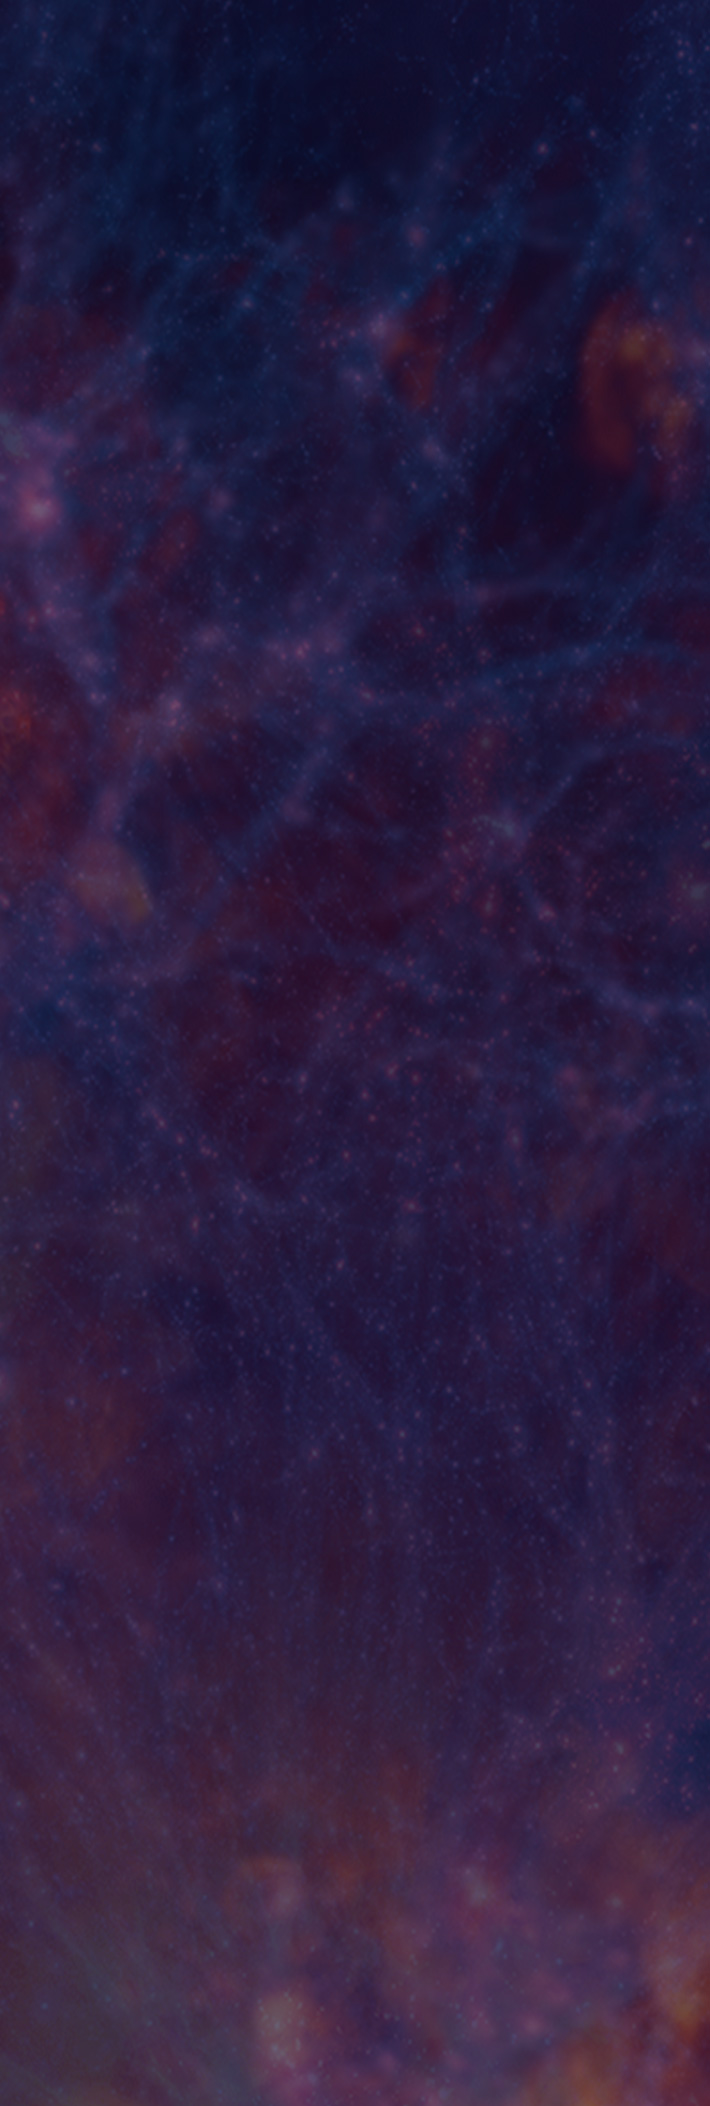
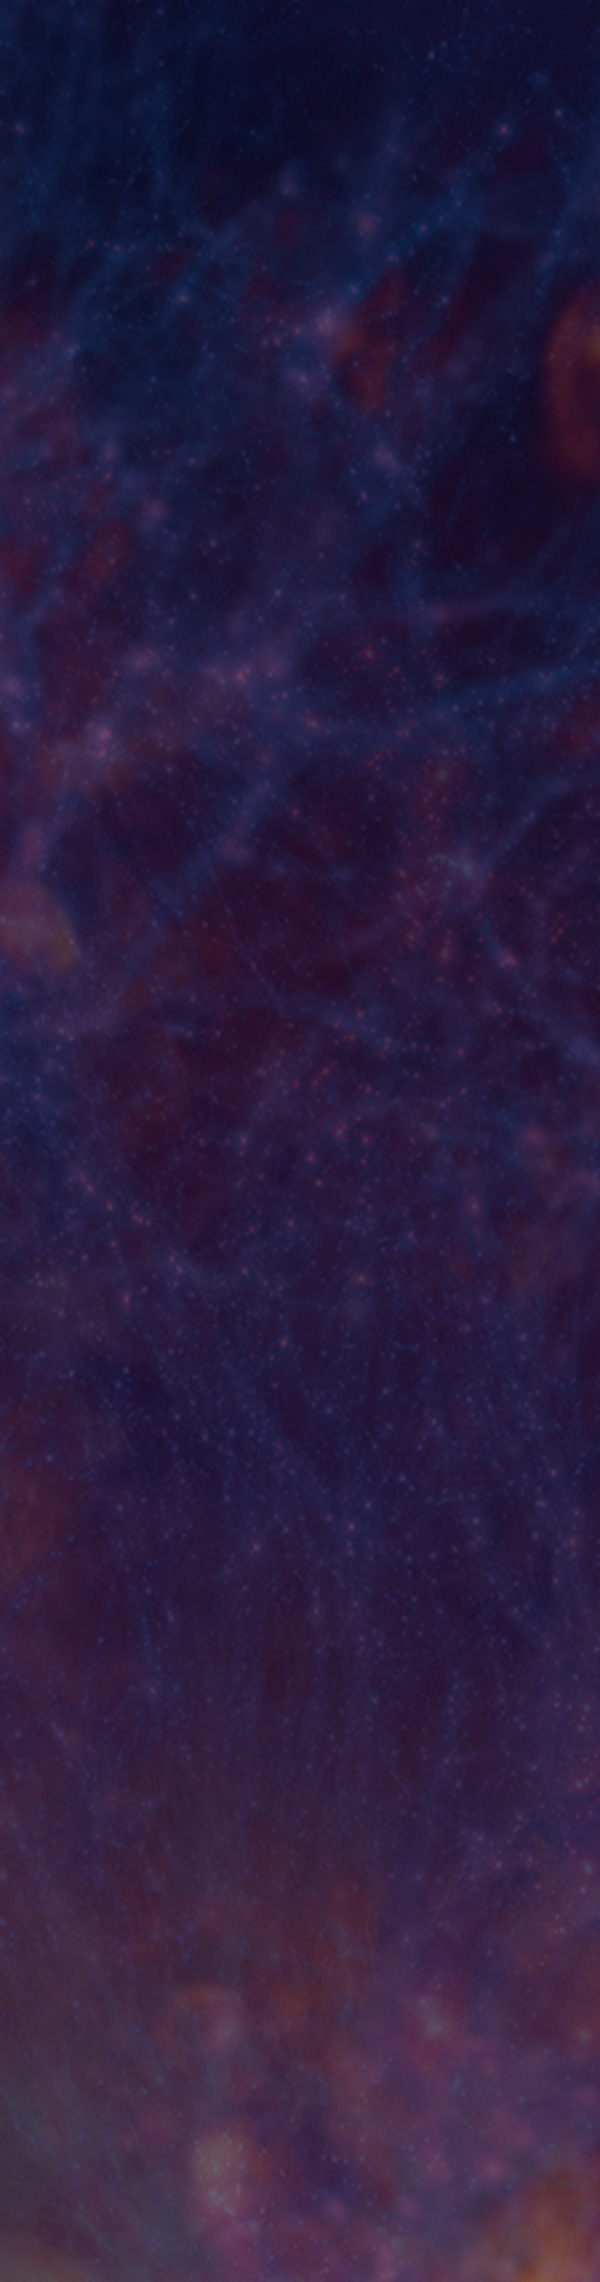
adjust sidebar size

diff --git a/ai2html/sam-ting/embed/dark-matter-sidebar.html b/ai2html/sam-ting/embed/dark-matter-sidebar.html
@@ -3,11 +3,11 @@
 
 <head>
     <meta charset="UTF-8">
-    <title>Sam Ting Sidebar</title>
+    <title>Sam Ting Infographic</title>
 </head>
 
 <body>
-    <!-- Generated by ai2html v0.66.4 - 2018-02-09 15:37 -->
+    <!-- Generated by ai2html v0.66.4 - 2018-02-09 15:53 -->
     <!-- ai file: dark-matter-sidebar.ai -->
     <style type='text/css' media='screen,print'>
     @import url('https://fonts.googleapis.com/css?family=Open+Sans:400,500,700,800');
@@ -35,7 +35,7 @@
     #g-dark-matter-sidebar-mobile-355 {
         position: relative;
         overflow: hidden;
-        width: 355px;
+        width: 300px;
     }
 
     #g-dark-matter-sidebar-mobile-355 p {
@@ -98,25 +98,25 @@
     </style>
     <div id="g-dark-matter-sidebar-box" class="ai2html">
         <!-- Artboard: mobile-355 -->
-        <div id="g-dark-matter-sidebar-mobile-355" class="g-artboard g-artboard-v4" data-min-width='355'>
+        <div id="g-dark-matter-sidebar-mobile-355" class="g-artboard g-artboard-v4" data-min-width='300'>
             <img id="g-dark-matter-sidebar-mobile-355-img" class="g-aiImg" src="img/dark-matter-sidebar-mobile-355.jpg" />
-            <div id="g-ai0-1" class="g-Glow g-aiAbs" style="top:3.1325%;left:8.4507%;width:82.8169%;">
+            <div id="g-ai0-1" class="g-Glow g-aiAbs" style="top:2.2788%;left:7.5%;width:86%;">
                 <p class="g-pstyle0">The revolution</p>
             </div>
-            <div id="g-ai0-2" class="g-Glow g-aiAbs" style="top:5.4107%;left:8.4507%;width:82.8169%;">
+            <div id="g-ai0-2" class="g-Glow g-aiAbs" style="top:4.3824%;left:7.5%;width:86%;">
                 <p>The discovery of the J/ψ caused such a shift in thinking that the period is called the November Revolution. Here&rsquo;s how we built up to</p>
                 <p>that moment.</p>
             </div>
-            <div id="g-ai0-3" class="g-Glow g-aiAbs" style="top:13.6691%;left:8.4507%;width:82.8169%;">
+            <div id="g-ai0-3" class="g-Glow g-aiAbs" style="top:13.3224%;left:7.5%;width:86%;">
                 <p class="g-pstyle1">The background</p>
             </div>
-            <div id="g-ai0-4" class="g-Glow g-aiAbs" style="top:16.1371%;left:8.4507%;width:82.8169%;">
+            <div id="g-ai0-4" class="g-Glow g-aiAbs" style="top:15.6012%;left:7.5%;width:86%;">
                 <p>Accelerator physics. Einstein predicted that mass and energy are actually interchangeable, but it takes a lot of energy to produce a little bit of mass. So physicists started smashing particles into other particles, concentrating the energy to make new particles. These particles are not normally seen because they give up their mass in the form of energy, downsizing into ordinary particles &ndash; such as protons, neutrons and electrons. They typically do so very quickly, in just a nanosecond or less.</p>
             </div>
-            <div id="g-ai0-5" class="g-Glow g-aiAbs" style="top:34.2676%;left:8.4507%;width:82.8169%;">
+            <div id="g-ai0-5" class="g-Glow g-aiAbs" style="top:34.9712%;left:7.5%;width:86%;">
                 <p class="g-pstyle1">The breakthroughs</p>
             </div>
-            <div id="g-ai0-6" class="g-Glow g-aiAbs" style="top:36.7356%;left:8.4507%;width:82.8169%;">
+            <div id="g-ai0-6" class="g-Glow g-aiAbs" style="top:37.2501%;left:7.5%;width:86%;">
                 <p class="g-pstyle2">1947<span class="g-cstyle0"> </span></p>
                 <p>The &ldquo;pi meson&rdquo; is discovered, kicking off the accumulation of a &ldquo;particle zoo.&rdquo; These particles, discovered with accelerators, were thought at first to be elementary particles &ndash; the smallest particles, from which everything else is made. But as the community closed in on a hundred of them, researchers doubted that they were truly elementary.</p>
                 <p>&nbsp;</p>
@@ -129,18 +129,15 @@
                 <p class="g-pstyle2">Monday, November 11, 1974</p>
                 <p>Sam Ting, a physics professor at MIT, and Burton Richter, a physicist at the Stanford Linear Accelerator Center, make a joint announcement. In two different experiments, they had discovered the same particle. Ting&rsquo;s group called it the J particle. Richter&rsquo;s named it ψ (psi).</p>
             </div>
-            <div id="g-ai0-7" class="g-Glow g-aiAbs" style="top:83.4383%;left:8.4507%;width:82.8169%;">
+            <div id="g-ai0-7" class="g-Glow g-aiAbs" style="top:84.3166%;left:7.5%;width:86%;">
                 <p class="g-pstyle1">the new model</p>
             </div>
-            <div id="g-ai0-8" class="g-Glow g-aiAbs" style="top:85.9063%;left:8.4507%;width:82.8169%;">
+            <div id="g-ai0-8" class="g-Glow g-aiAbs" style="top:86.5954%;left:7.5%;width:86%;">
                 <p>The weird thing about the J/ψ is its very long lifetime combined with a high mass. It didn&rsquo;t fit any predictions.Eventually, the community realized that the J/ψ was made up of a fourth quark, dubbed the charm quark, and its antiparticle. The quark model officially took over. Ting and Richter were awarded the Nobel Prize in physics in 1976.</p>
             </div>
         </div>
-        <!-- Custom HTML -->
-        <script type="text/javascript" src="../../js/resizer-script.js"></script>
-        <script type="text/javascript" src="https://cdnjs.cloudflare.com/ajax/libs/iframe-resizer/3.5.16/iframeResizer.contentWindow.min.js"></script>
     </div>
-    <!-- End ai2html - 2018-02-09 15:37 -->
+    <!-- End ai2html - 2018-02-09 15:53 -->
 </body>
 
 </html>
